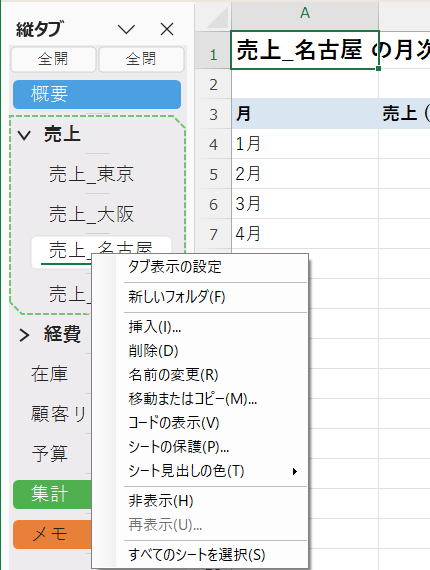
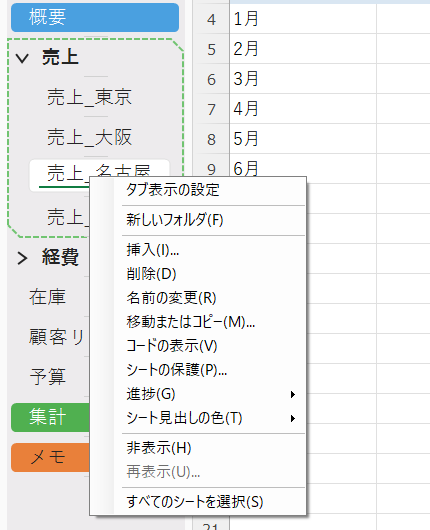
README の説明文と画像を、最新のアドインに合わせる。検索、履歴、バッジ、進捗、追加・削除の動きの説明と画像を追加する (Agents.md 12.220)

diff --git a/README.md b/README.md
@@ -10,6 +10,8 @@
 - **一覧できる** … シート名がずらりと縦に並ぶ。もう、横スクロールの矢印を何度も押さなくていい
 - **整理できる** … シートを**フォルダ**にまとめられる。並びは、Excelのシートの並びにも反映。縦タブの上端の「全開」「全閉」で、フォルダをまとめて開閉
 - **いつもの操作** … クリック、ドラッグ、Ctrl+ドラッグでコピー、右クリックメニュー、シート見出しの色まで、横タブと同じ
+- **探せる・たどれる** … 縦タブの上端の**検索ボックス**で、シート名やフォルダ名を絞り込み。**戻る・進む**で、見たシートをたどれる ([詳しく](#19-探すたどる状態を見る-検索履歴バッジ進捗))
+- **状態が見える** … 行の右端の**バッジ**で、数式エラー、メモ、保護を。**進捗の印**(未着手・作業中・完了)で、シートごとの作業の進み具合を
 - **選べる見た目** … 8つの選択デザインと、5つのアクティブシートの印。ガラスのような透け感の選択表示も。選んだシートや、開閉したフォルダが、ぷるっと揺れるアニメーションも (初期値は、なし。[動く様子を見る](#18-シートがぷるっと動く-アニメーション))
 - **ブックごとに設定** … 縦タブを使うブックだけ、使える。設定は、ブックと一緒に保存される
 
@@ -50,9 +52,11 @@
 |---|---|
 | **表示モード** | 横タブだけ / 縦タブだけ / 両方 ([1.3](#13-表示モードで画面がこう変わる)) |
 | **縦タブの位置** | 画面の左 / 右 |
+| **追加・削除・完了のアニメーション** | フォルダ・シートの追加、削除の動きと、進捗を「完了」にしたときの、印のはじける動きの、オン / オフ ([1.9](#19-探すたどる状態を見る-検索履歴バッジ進捗)) |
+| **表示するバッジ** | 行の右端に出す印。数式エラー / メモ・コメント / シートの保護 / 進捗 ([1.9](#19-探すたどる状態を見る-検索履歴バッジ進捗)) |
 | **アクティブシートのマーカー表示** | 今開いているシートの印。下線 / 三角 / 両端バー / チェックバッジ / なし ([1.5](#15-選択中のフォルダとシートの見た目を選ぶ)) |
 | **フォルダ＆シート選択のデザイン** | 選択中のフォルダとシートの見た目を、8種類から。**サンプルが、その場で見える** ([1.5](#15-選択中のフォルダとシートの見た目を選ぶ)) |
-| **開閉したフォルダ＆選択したシートのアニメーション** | シートを選ぶと、そのシートが揺れる。フォルダを開閉したり、選択 / 解除したりすると、そのフォルダも同じように揺れる (開いたときは、中のシートも一斉に揺れる)。6種類の動き (シェイク / ウォブル / ジェリー / バウンス / パルス / スイング) とランダム、揺れの大きさと長さを選べる (初期値は、なし。[1.8](#18-シートがぷるっと動く-アニメーション)、[8章](#8-設定画面)) |
+| **開閉したフォルダ＆選択したシートのアニメーション** | シートを選ぶと、そのシートが揺れる。フォルダを開閉したり、選択 / 解除したりすると、そのフォルダも同じように揺れる (開いたときは、中のシートも一斉に揺れる)。6種類の動き (シェイク / ウォブル / ジェリー / バウンス / パルス / スイング) とランダム、揺れの大きさと長さ、効果音を選べる (初期値は、なし。[1.8](#18-シートがぷるっと動く-アニメーション)、[8章](#8-設定画面)) |
 | **フォルダを囲む点線** | 開いたフォルダを囲む点線の、表示 / 非表示と、色の濃さ (9段階) |
 | **シート名のルール** | 「フォルダ名 \| シート名」の名前で、フォルダを自動で作る ([1.6](#16-シート名だけでフォルダを共有する-シート名のルール)) |
 
@@ -80,7 +84,7 @@
 - フォルダの `>` / `∨` を押すと、**開閉**できます。閉じると、中のシートは縦タブから隠れます
 - フォルダは**ドラッグで移動**できます。中のシートも、一緒に動きます。Ctrl+ドラッグで、フォルダごとコピーできます
 - シートをフォルダの中へ、外へ、**ドラッグするだけ**で、出し入れできます
-- フォルダにも**色**が付けられます。「中の全てを常にフォルダと同一色に設定」をONにすると、フォルダの色が、中のシートにも広がり、新しく入ったシートにも、自動で付きます
+- フォルダにも**色**が付けられます。「中の全てを常にフォルダと同一色に設定」をONにすると、フォルダの色が、中のシートにも広がり、新しく入ったシートにも、自動で付きます。ONのフォルダには、行の右端に、**傾いたペンキ缶と青いしずく**の印が付きます ([1.9](#19-探すたどる状態を見る-検索履歴バッジ進捗)の画像にも写っています)
 - 「フォルダ内のシートをすべて選択」で、フォルダ内のシートを、グループ選択。そのまま、まとめて保護、移動、コピーができます
 - フォルダの順序は、Excelのシートの並びにも反映されます (横タブでも、同じ順に並びます)
 - フォルダが**1つでもある**と、縦タブの上端に「**全開**」「**全閉**」のボタンが出ます。押すと、すべてのフォルダが、まとめて開く / 閉じます。フォルダが無くなると、ボタンも消えます
@@ -186,7 +190,37 @@
 - 「サンプルの見た目を、選択したデザインとマーカー表示に合わせる」にチェックを入れると、サンプルが、いま選んでいる選択デザインとマーカーで動きます。実際の縦タブの見た目で、動きを確かめられます
 - 動きを「なし」にすれば、いつでも、静かな縦タブに戻せます
 
-### 1.9 使い方のまとめ
+### 1.9 探す、たどる、状態を見る (検索、履歴、バッジ、進捗)
+
+シートが増えても、迷わないための機能です。どれも、縦タブの中で、完結します。
+
+#### 検索ボックスと、戻る・進む
+
+縦タブの上端に、**◀ (戻る)**、**▶ (進む)**、**検索ボックス**、**フォルダの切り替え** が並びます。入力するたびに、シート名が絞り込まれ、一致した文字が黄色に光ります。フォルダのアイコンを ON にすると、フォルダ名で絞り込みます。◀ を右クリック (または長押し) すると、**最近見たシート**の一覧が出て、選んだシートへ移動できます。
+
+![検索ボックスの3つの使い方。シート名で絞り込む、フォルダ名で絞り込む、◀ を右クリックして最近見たシートを選ぶ](docs/images/search.png)
+
+#### バッジと進捗の印
+
+「タブ表示の設定」の「**表示するバッジ**」で選んだ印が、行の右端に出ます。数式エラー (赤い三角)、メモ (黄色)、シートの保護 (南京錠)、そして、シートごとの**進捗** (空の丸 = 未着手、半分の丸 = 作業中、緑の丸にチェック = 完了、緑のロックにチェック = 完了で保護済み) です。フォルダの行には、「完了したシート / 進捗のあるシートの数」が出ます (閉じたフォルダには、バッジの付くシートの数も出ます)。
+
+![Before: バッジなし / After: バッジあり。エラー、メモ、保護、進捗の印が行の右端に並ぶ。フォルダには、完了の数と、閉じたフォルダの中のバッジの数が出る。売上フォルダの右端には、ペンキ缶の印 (同一色の設定がON)](docs/images/badges.png)
+
+進捗は、**印をクリック**すると、順に進みます (なし → 未着手 → 作業中 → 完了)。右クリックの「**進捗**」からも、選べます。
+
+![シートを右クリックすると、進捗の項目が出て、なし、未着手、作業中、完了を選べる](docs/images/progress_menu.png)
+
+「完了」にした瞬間は、印がぽんとはじけます。
+
+![進捗が、作業中から完了に変わる。印が膨らんで、はじける](docs/images/progress_done.gif)
+
+#### シートやフォルダの、追加・削除の動き
+
+「追加・削除・完了のアニメーション」(初期値は、オン) で、シートを増やしたり、消したりしたときの縦タブの動きが付きます。素早く操作したい人は、オフにできます。
+
+![「+」でシートを追加すると、行がぽんと現れる。削除すると、縮んで消えて、下の行がつまる](docs/images/rowanim.gif)
+
+### 1.10 使い方のまとめ
 
 | やりたいこと | 操作 |
 |---|---|
@@ -199,6 +233,8 @@
 | シートをフォルダに入れる | 選んで、右クリック > 「新しいフォルダ」。または、既存のフォルダへドラッグ |
 | フォルダを開閉する | 行の先頭の `>` / `∨` |
 | 全フォルダを開閉する | 縦タブの上端の「全開」「全閉」ボタン (フォルダが1つ以上あるとき)、または、フォルダの右クリック > 「全てのフォルダを閉じる / 開く」 |
+| シートを探す | 縦タブの上端の検索ボックスに入力 (Ctrl+F)。◀ ▶ で、見たシートをたどる |
+| 進捗を付ける | 行の右端の印をクリック、または、右クリック > 「進捗」 (「表示するバッジ」で「進捗」を入れたとき) |
 | 見た目を変える | 「タブ表示の設定」の「選択デザイン」「マーカー」 |
 | 横タブに戻す | 縦タブの「×」、または、表示モードを「横タブのみ」に |
 
@@ -215,8 +251,10 @@
 | 複数選択 | Ctrl+クリック、Shift+クリックで、グループ選択。グループのまま、移動、コピー、色の変更、非表示、削除 |
 | フォルダ | シートを1段のフォルダに分類 / 開閉 / 名前、色 / ドラッグで移動、コピー / フォルダごとの一括操作 / 縦タブの上端の「全開」「全閉」ボタン (フォルダが1つ以上あるとき)。並びは、横タブにも反映 |
 | シート名のルール | 横タブのシート名「A &#124; B」を、縦タブでは、フォルダ A の中のシート B として表示 (使う/使わないを選択) |
-| アニメーション | シートを選んだとき、フォルダを開閉したときに、その行が揺れる。6種類の動きとランダム、揺れの大きさ、長さ (ブックごとに選択。初期値は、なし) |
-| 設定画面 | 表示モード、縦タブの位置、アクティブシートのマーカー表示、フォルダ＆シート選択のデザイン、アニメーション、フォルダを囲む点線 (表示/非表示、色の濃さ)、シート名のルール |
+| 検索、履歴 | 縦タブの上端の検索ボックスで、シート名 / フォルダ名を絞り込み / ◀ ▶ で、見たシートをたどる (最大20枚、ブックに保存) / 最近見たシートの一覧 (最大10枚) |
+| バッジ、進捗 | 行の右端に、数式エラー、メモ、保護、進捗 (未着手 / 作業中 / 完了。完了 + 保護の印も) を表示。閉じたフォルダには、中のシートの数を表示 (ブックごとに選択。初期値は、出さない) |
+| アニメーション | シートを選んだとき、フォルダを開閉・選択 / 解除したときに、その行が揺れる (6種類の動きとランダム、揺れの大きさ、長さ、効果音。初期値は、なし) / ドラッグ中の半透明のゴースト / シート、フォルダの追加、削除の動き (初期値は、オン) / 進捗を完了にしたときの、はじける動き (初期値は、オン) |
+| 設定画面 | 表示モード、縦タブの位置、追加・削除・完了のアニメーション、表示するバッジ、アクティブシートのマーカー表示、フォルダ＆シート選択のデザイン、開閉したフォルダ＆選択したシートのアニメーション (効果音を含む)、フォルダを囲む点線 (表示/非表示、色の濃さ)、シート名のルール |
 | 設定の保存 | ブックごとに保存して、次に開いたときに復元。ブックごとに独立 |
 
 横タブのシートの右クリックメニューにも、先頭に「タブ表示の設定」が加わります。
@@ -325,6 +363,8 @@ flowchart TD
 
 ### 5.5 検索ボックスと、戻る・進む
 
+(画像は、[1.9](#19-探すたどる状態を見る-検索履歴バッジ進捗)にあります。)
+
 縦タブの上端に、左から **◀ (戻る)**、**▶ (進む)**、**検索ボックス**、**フォルダの切り替え** が並びます。
 
 | 操作 | 動作 |
@@ -340,7 +380,7 @@ flowchart TD
 - 検索中は、ドラッグでの移動はできません
 - 日本語入力では、最初の1文字を、縦タブへ直接打っても届かないことがあります。Ctrl+F か、検索ボックスのクリックのあとに、入力してください
 
-### 5.6 行のバッジ (数式エラー、メモ)
+### 5.6 行のバッジ (数式エラー、メモ、保護)
 
 「タブ表示の設定」の「**表示するバッジ**」で、シートの状態を、行の右端の小さな印で知らせます。**初期値は、どれも出しません** (ブックごとの設定)。
 
@@ -354,6 +394,7 @@ flowchart TD
 - 印に、ポインターを乗せると、「数式エラーが 3 か所」などと出ます
 - アクティブなシートの三角、両端バーのマーカーとは、重ならないように、その内側に出ます
 - ガラスの選択デザイン (グロッシーグラス、フロストグラス１、２) では、選択中の行のバッジは、ガラス越しに、やわらかく見えます
+- 行の右端に並ぶ印には、白い縁取りとぼかしが付き、暗い行や、色付きの行の上でも、見失いません
 - 選んだバッジだけを調べます。何も選ばないときは、何も調べません。アクティブなシートのメモと保護は、常に読み直します。セルを変更したり、再計算されたりすると、少し待ってから (約0.5秒)、そのシートを調べ直します。ほかのシートも、約10秒ごとに、順に調べ直します
 
 ### 5.7 シートの追加・削除のアニメーション
@@ -367,7 +408,7 @@ flowchart TD
 | フォルダを作る、コピーする | フォルダの行が、ぽんと現れます。フォルダに入るシートは、横へすべって、字下げが付きます |
 | フォルダを削除する | フォルダの行が縮んで消えます。中のシートは、横へすべって、字下げがなくなります (「フォルダと中のシートを削除」では、まとめて縮んで消えます) |
 
-- 縦タブの「+」、Excelの横タブ、マクロなど、どの方法でも、動きます。動きの長さは、固定で、音は付きません
+- 縦タブの「+」、Excelの横タブ、マクロなど、どの方法でも、動きます。動きの長さは、固定で、音は付きません (動きは、[1.9](#19-探すたどる状態を見る-検索履歴バッジ進捗)の画像で見られます)
 - 名前の変更、シート名のルールを使っているとき、15行以上の一括の変更、検索の絞り込み中は、動きません
 
 ### 5.8 進捗の印 (未着手・作業中・完了)
@@ -508,6 +549,8 @@ flowchart LR
 |---|---|---|
 | 表示モード | 横タブのみ / 縦タブのみ / 両方 | 横タブ、縦タブの表示を選ぶ |
 | 縦タブの位置 | 左 / 右 | 縦タブのペインを置く側 (「横タブのみ」のときは選べません) |
+| 追加・削除・完了のアニメーション | フォルダ・シートの追加・削除を、動きで見せる / 進捗を「完了」にしたとき、印をはじけさせる | 縦タブの追加、削除の動きと、完了の印の動きを、それぞれ、オン / オフする。初期値は、どちらも、オン。設定画面の左半分に、「表示するバッジ」と並んでいます |
+| 表示するバッジ | 数式エラー / メモ・コメント / シートの保護 / 進捗 (未着手・作業中・完了) | 行の右端に出す印を、チェックで選ぶ (初期値は、どれも出さない)。各チェックの左に、その印と同じ図柄が出る。選んだ印は、選択デザインのサンプルにも、すぐ出る。閉じたフォルダには、中のシートの数を出す |
 | アクティブシートのマーカー表示 | 下線マーカー / 三角マーカー / 両端バーマーカー / チェックバッジマーカー (名前の左に丸いチェック) / マーカーなし (横に並ぶ) | アクティブなシートの印。選んだマーカーは、下の選択デザインのサンプルにも、すぐ反映される。初期値は、下線マーカー |
 | フォルダ＆シート選択のデザイン | 標準 / ダブルフレーム / グロッシーグラス / ストライプ / フロストグラス１ / フロストグラス２ / インセット / クリスタル | 選択中のフォルダとシートの見た目。8つの選択肢が、横4 x 縦2 に並ぶ。左端に、非選択のサンプルが1つ (2段の中央)、各選択肢には、選択 (色なしのシート) と選択 (色付きのシート) のサンプルが出る (サンプルをクリックしても選べる)。初期値は、標準 |
 | 開閉したフォルダ＆選択したシートのアニメーション | なし / 1 シェイク / 2 ウォブル / 3 ジェリー / 4 バウンス / 5 パルス / 6 スイング / 7 ランダム (横に並ぶ) | シートを選んだとき、そのシートが、フォルダを開閉したときや、選択 / 解除したとき、そのフォルダが揺れる (フォルダを開いたときは、中の見えているシートも一斉に揺れる)。7 ランダムは、そのたびに、1から6のどれかを選ぶ。初期値は、なし |
@@ -519,6 +562,8 @@ flowchart LR
 | | 色 (1から9) | 点線の色。右にいくほど、縦タブの背景から離れた、はっきりした色 |
 | シート名のルール | 使う | [7章](#7-シート名のルール)。「フォルダを囲む点線」の右に、並んでいます |
 
+![設定画面の上の部分。表示モード、縦タブの位置、追加・削除・完了のアニメーション、表示するバッジ、アクティブシートのマーカー](docs/images/settings_badges.png)
+
 画面の左下に、バージョン、著作権、ライセンスが表示されます。
 
 ## 9. 設定の保存と、他の環境での扱い
@@ -529,9 +574,11 @@ flowchart LR
 
 | 内容 | 保存先 |
 |---|---|
-| 表示モード、位置、幅、点線、シート名のルール | ブックの「カスタムドキュメントプロパティ」 (`VTab.Mode`、`VTab.Side`、`VTab.Width`、`VTab.Outline`、`VTab.OutlineLevel`、`VTab.NameRule`、`VTab.SelectStyle`、`VTab.ActiveMarker`、`VTab.Wobble`、`VTab.WobbleAmp`、`VTab.WobbleDur`) |
+| 表示モード、位置、幅、点線、シート名のルール、見た目、バッジ、アニメーション | ブックの「カスタムドキュメントプロパティ」 (`VTab.Mode`、`VTab.Side`、`VTab.Width`、`VTab.Outline`、`VTab.OutlineLevel`、`VTab.NameRule`、`VTab.SelectStyle`、`VTab.ActiveMarker`、`VTab.Badges`、`VTab.RowAnim`、`VTab.DoneAnim`、`VTab.Wobble`、`VTab.WobbleAmp`、`VTab.WobbleDur`、`VTab.WobbleSound`、`VTab.WobbleVolume`、`VTab.WobbleSampleStyle`) |
 | フォルダの構成 (名前、色、開閉、中のシート) | ブックの「カスタムXMLパート」 |
 | フォルダ内のシートの識別 | 各ワークシートの隠しカスタムプロパティ `VTab.Id` |
+| シートの進捗 | 各ワークシートの隠しカスタムプロパティ `VTab.Progress` (`todo` / `doing` / `done`) |
+| 見たシートの履歴 | ブックの「カスタムXMLパート」 (フォルダの構成とは、別のパート) |
 
 ```mermaid
 flowchart TD
@@ -563,6 +610,10 @@ flowchart TD
 | 横タブからの「挿入」 | Excel標準の横タブの右クリックからの「挿入」では、シート名のルールを使っていても、フォルダの中には入りません (縦タブの「挿入」を使ってください) |
 | 縦タブにフォーカスがあるとき | Ctrl+S、F12 は使えますが、Ctrl+Z、Ctrl+P など、他のExcelのショートカットは、使えません。シートのセルをクリックしてから使ってください |
 | 多数のシート | 1000枚のブックでも動作します (縦タブの更新の処理は、1回あたり約30ミリ秒です)。フォルダのあるブックは、シート名の並びが変わるたびに、全シートの識別を読み直しますが、1000枚でも、約20ミリ秒です |
+| Excelのダイアログが開いている間 | 保存確認、「名前を付けて保存」、セルの書式設定など、Excelのダイアログが開いている間は、縦タブの表示は、更新されません (閉じると、すぐ更新されます) |
+| バッジの更新 | マクロなどで、メモや保護を、プログラムから変えたときは、そのシートを離れるか、約10秒後に、バッジが更新されます。値だけのエラー (数式でない `#N/A` など) は、数えません |
+| 進捗 | ワークシートだけに付けられます (グラフシートには付けられません)。シートをコピーしても、進捗は、コピーされません |
+| 日本語入力と検索 | 縦タブへ、文字を直接打つと、日本語入力の最初の1文字は、検索ボックスに届かないことがあります (Ctrl+F か、検索ボックスのクリックのあとに、入力してください) |
 | 配布 | 自己署名の証明書です。他のPCにインストールするときは、証明書を信頼する必要があります (3章) |
 
 不具合や要望は、状況 (ブックを開いた方法、拡大率、Excelのバージョン、操作の順序) を添えて、連絡してください。

diff --git a/Agents.md b/Agents.md
@@ -2566,3 +2566,12 @@ gitGraph
 
 - 12.218 (Excelのダイアログが開いている間は、縦タブの同期を止める修正と、他の状況の点検) を含めて、バージョンを 1.1.88.0 に上げ、ClickOnce のインストーラを作り直した (`develop` と `master` に反映し、`v1.1.88` のタグを付けた。配布用zip: `配布用zip\VerticalSheetTabs_v1.1.88.zip`)
 - 成果物: `VerticalSheetTabs\bin\Release\app.publish\` (`setup.exe`、`VerticalSheetTabs.vsto`、`Application Files\VerticalSheetTabs_1_1_88_0\`)。インストールの実機確認は、未実施
+
+### 12.220 更新: README の説明文と画像を、最新のアドインに合わせる
+
+- ユーザーの依頼により、README.md の説明文と画像のうち、最後に更新した時点 (12.179。フォルダの選択の揺れの追記) より後の、ソフトの変更の影響があるものを、更新した。説明にない機能は、説明文と画像を追加した
+- 後の変更で、見た目が変わった画像を、実機の Excel (拡大率125%、アドインあり / なし) で撮り直した (縦タブの上端に、検索ボックスと、戻る・進むの行が加わった、バッジ、進捗、「同一色」のペンキ缶の印が加わった、右クリックメニューに「進捗」が加わった、設定画面に「追加・削除・完了のアニメーション」と「表示するバッジ」が加わった、ため): `hero.png`、`modes.png`、`rule.png`、`menu_sheet.png`、`menu_folder.png`、`menu_palette.png`、`settings_full.png`、`settings_design.png`、`settings_anim.png`、`designs.png`、`markers.png` (縦タブの部品を単独の画面に描画)、`wobble_excel.gif`、`folders_excel.gif`、`folder_select.gif`、`drag_ghost.gif`。リボンの `ribbon.png` と、`wobble_types.gif` は、見た目が変わっていないため (`wobble_types.gif` は、縦タブの部品を単独の画面に描いたもので、検索の行が無いまま)、撮り直していない
+- 追加した画像: `search.png` (検索ボックスの3つの使い方)、`badges.png` (バッジなし / ありの比較)、`progress_menu.png` (右クリックの「進捗」)、`progress_done.gif` (完了にしたときの、はじける動き)、`rowanim.gif` (「+」での追加と、削除の動き)、`settings_badges.png` (設定画面の上の部分)
+- 説明文: 先頭の特長に「探せる・たどれる」「状態が見える」を足した。1章に、「1.9 探す、たどる、状態を見る (検索、履歴、バッジ、進捗)」を足した (旧 1.9 の使い方のまとめは、1.10)。1.2 の表に、「追加・削除・完了のアニメーション」「表示するバッジ」を足し、効果音の記述を足した。1.4 に「同一色」のペンキ缶の印を書いた。2章 (機能一覧) に、検索、履歴、バッジ、進捗、アニメーション (ゴースト、追加・削除、完了) を足した。5.6 を「行のバッジ (数式エラー、メモ、保護)」にし、白い縁取りの記述を足した。8章 (設定画面) の表に、2つのグループと、画像を足した。9.1 (保存場所) に、`VTab.Badges`、`VTab.RowAnim`、`VTab.DoneAnim`、`VTab.WobbleSound`、`VTab.WobbleVolume`、`VTab.WobbleSampleStyle`、`VTab.Progress`、履歴のXMLパートを足した。10章 (制約) に、Excelのダイアログが開いている間は、縦タブが更新されないこと、バッジの更新の遅れ、進捗はワークシートだけ、日本語入力と検索、を足した
+- 撮影の手順 (次に撮り直すとき): 撮影用のブックは、`New-Book` (シート名、色、フォルダ) と、`Prep-Book` (数式エラー、メモ、保護、進捗を、アドインなしで付ける) で作る。縦タブにフォルダがあるときの、行の位置は、検索の行が加わったため、ウィンドウの上端から、概要 232、フォルダ「売上」272、その中のシートは 40 おき (拡大率125%、ウィンドウ 612 x 512 pt)。「全開」「全閉」は、y 195。GIF は、画面の領域を、約6ミリ秒おきに撮り、約60ミリ秒おきの画像を選んで、96色に減色して作る
+- PDF (`README.pdf`) を作って、35ページで、画像が入ることを確認した
